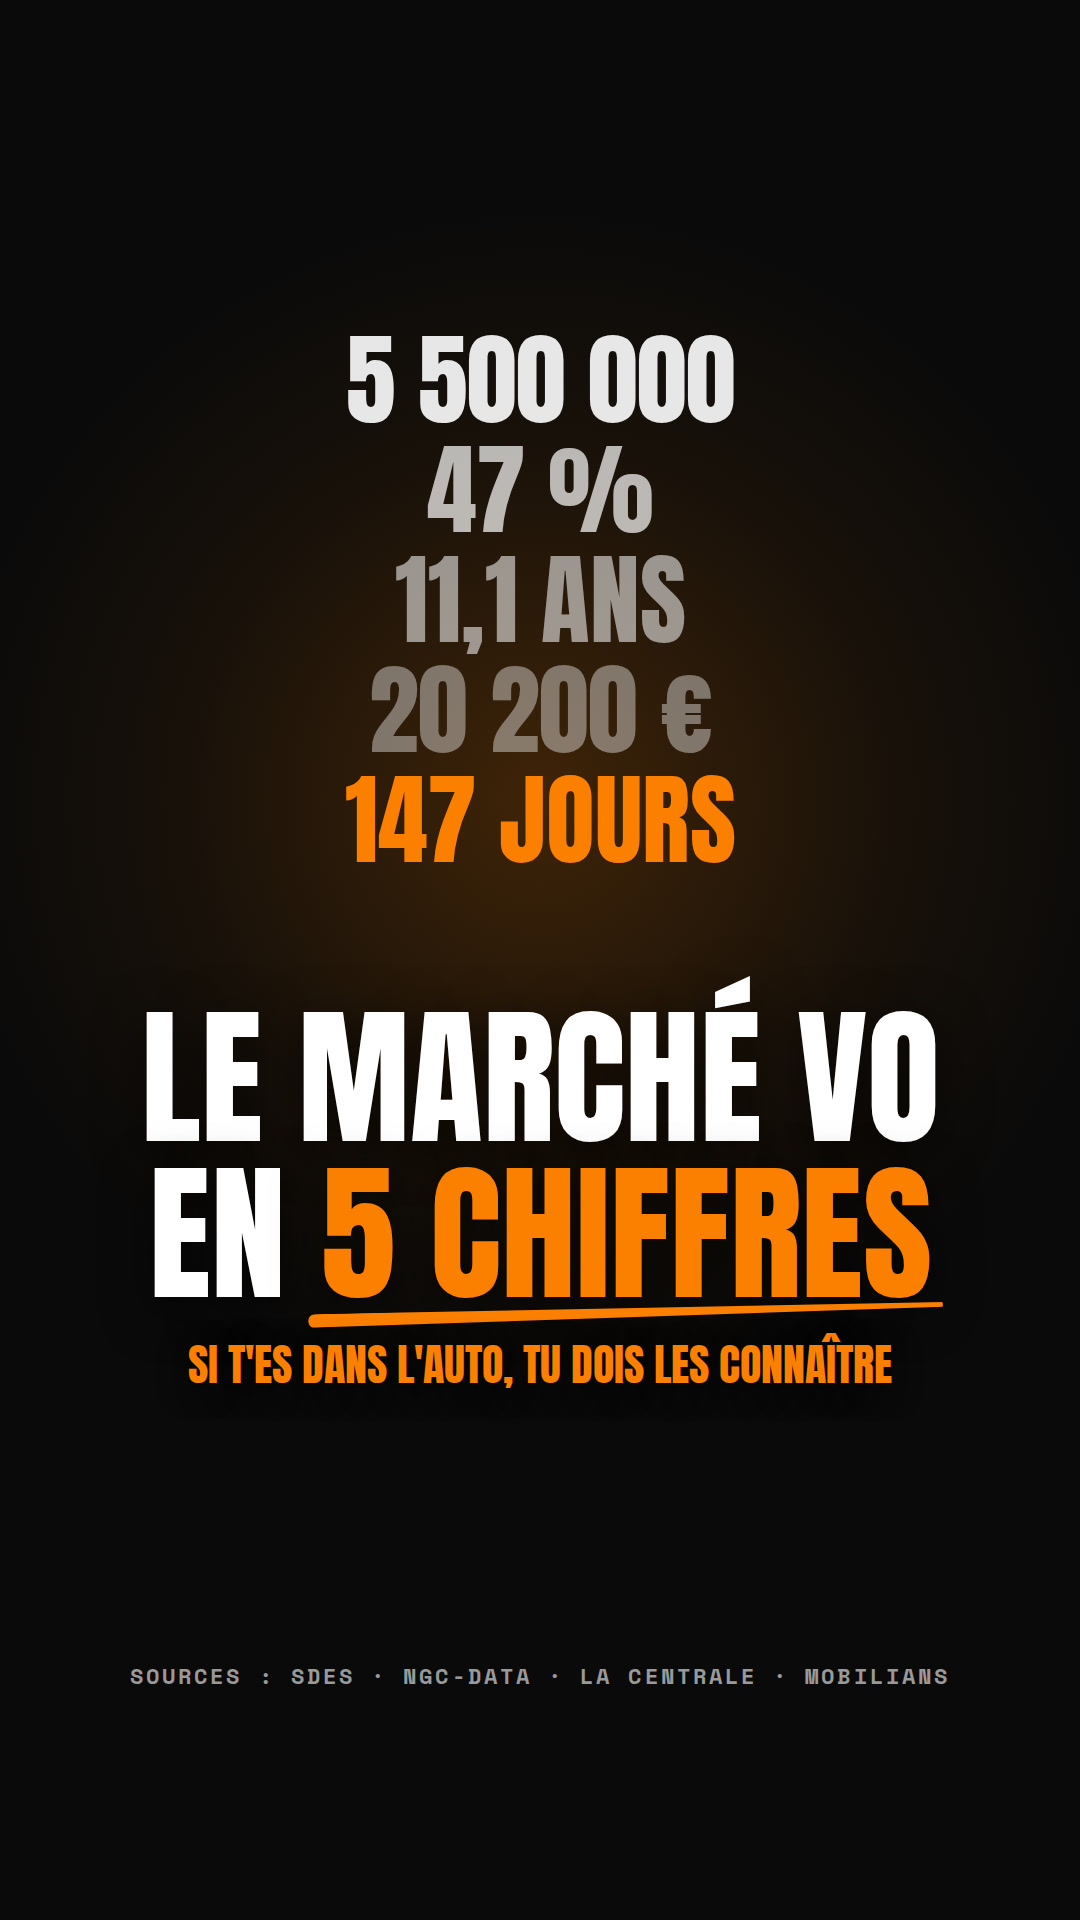
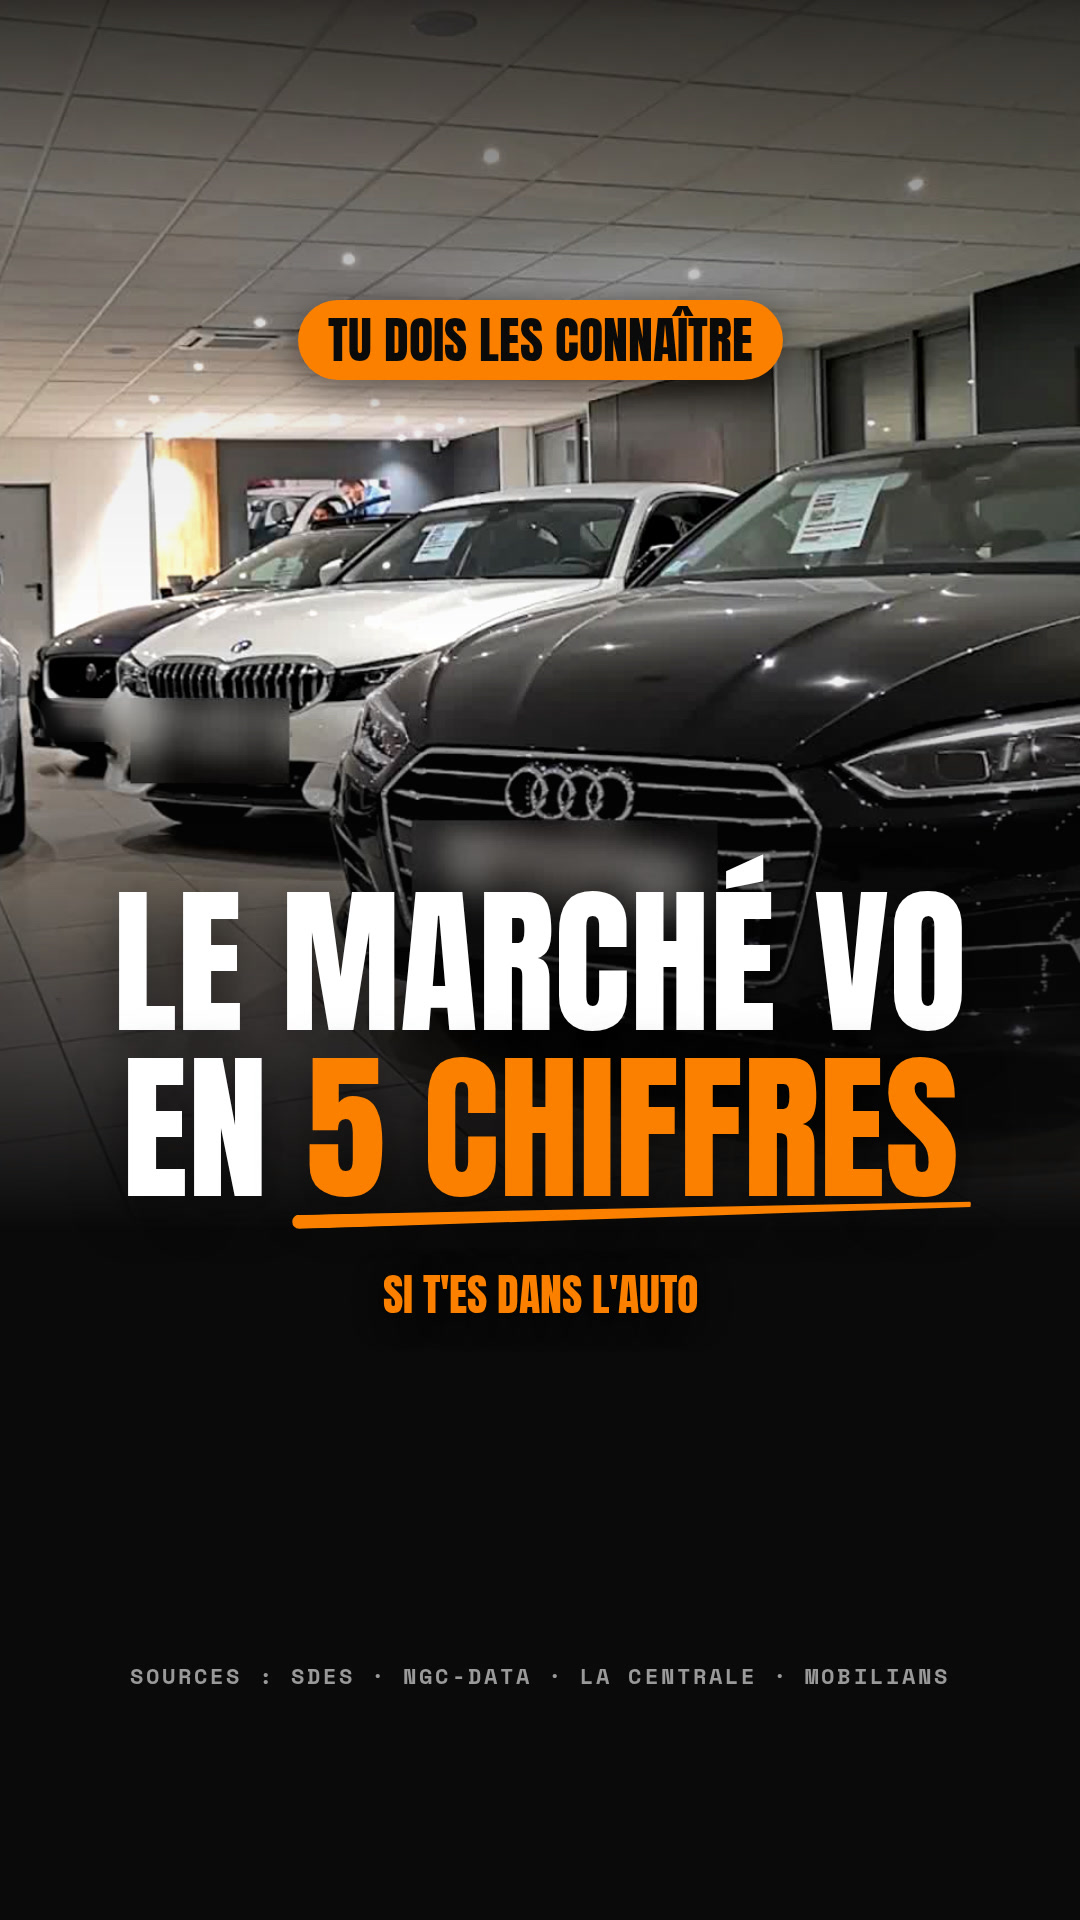
chiffres: cover sur la photo du showroom, sans les KPI
Claude-Session: https://claude.ai/code/session_01ARRCBTu3oy2jxFdHDyiDcc

diff --git a/chiffres/cover/cover.html b/chiffres/cover/cover.html
@@ -27,4 +27,4 @@ html, body { margin: 0; background: #0A0A0A; }
 .tile.or { border-color: #FB8000; }
 #k { position: absolute; left: 0; top: 1665px; width: 1080px; text-align: center; font: 700 30px/1 "Space Mono", monospace;
   color: #9a9a9a; letter-spacing: 0.14em; }
-</style></head><body><div id="c"><div id="halo"></div><div style="position:absolute;left:0;top:330px;width:1080px;text-align:center;font:100px/1 Anton;color:#fff;opacity:0.9">5 500 000</div><div style="position:absolute;left:0;top:440px;width:1080px;text-align:center;font:100px/1 Anton;color:#fff;opacity:0.7">47 %</div><div style="position:absolute;left:0;top:550px;width:1080px;text-align:center;font:100px/1 Anton;color:#fff;opacity:0.55">11,1 ANS</div><div style="position:absolute;left:0;top:660px;width:1080px;text-align:center;font:100px/1 Anton;color:#fff;opacity:0.4">20 200 €</div><div style="position:absolute;left:0;top:770px;width:1080px;text-align:center;font:100px/1 Anton;color:#FB8000;opacity:1">147 JOURS</div><div id="t" style="top:1000px;font-size:150px">LE MARCHÉ VO<br>EN <i class="u"><b>5 CHIFFRES</b></i></div><div id="s" style="top:1340px;font-size:44px">SI T'ES DANS L'AUTO, TU DOIS LES CONNAÎTRE</div><div id="k" style="font-size:22px">SOURCES : SDES · NGC-DATA · LA CENTRALE · MOBILIANS</div></div></body></html>
+</style></head><body><div id="c"><img id="hero" src="parc4.jpg" style="height:1300px;object-position:62% 50%;filter:saturate(1.15) contrast(1.08) brightness(1.05)"><div style="position:absolute;left:40px;top:698px;width:110px;height:44px;border-radius:8px;backdrop-filter:blur(10px);-webkit-backdrop-filter:blur(10px)"></div><div id="fade"></div><div id="hook"><span>TU DOIS LES CONNAÎTRE</span></div><div id="t" style="top:880px;font-size:160px">LE MARCHÉ VO<br>EN <i class="u"><b>5 CHIFFRES</b></i></div><div id="s" style="top:1270px;font-size:44px">SI T'ES DANS L'AUTO</div><div id="k" style="font-size:22px">SOURCES : SDES · NGC-DATA · LA CENTRALE · MOBILIANS</div></div></body></html>

diff --git a/dubai/cover/covers-autres-reels.py b/dubai/cover/covers-autres-reels.py
@@ -58,11 +58,9 @@ C = {
    hook="MÊME VOITURE, 2 MÉTIERS", title='MARCHAND<br><span style="font-size:0.5em">OU</span><br><i class="u"><b>INTERMÉDIAIRE ?</b></i>', ttop=990, tsize=150,
    sub="", stop=0, extra="",
    k="ACHAT-REVENTE AUTO"),
- "chiffres": dict(hero='<div id="halo"></div>' + "".join(
-     f'<div style="position:absolute;left:0;top:{330 + i * 110}px;width:1080px;text-align:center;font:{100}px/1 Anton;color:{c};opacity:{o}">{v}</div>'
-     for i, (v, c, o) in enumerate([("5 500 000", "#fff", .9), ("47 %", "#fff", .7), ("11,1 ANS", "#fff", .55), ("20 200 €", "#fff", .4), ("147 JOURS", "#FB8000", 1)])),
-   hook="", title='LE MARCHÉ VO<br>EN <i class="u"><b>5 CHIFFRES</b></i>', ttop=1000, tsize=150, sub="SI T'ES DANS L'AUTO, TU DOIS LES CONNAÎTRE",
-   stop=1340, extra="", k="SOURCES : SDES · NGC-DATA · LA CENTRALE · MOBILIANS", ssize=44, ksize=22),
+ "chiffres": dict(hero='<img id="hero" src="parc4.jpg" style="height:1300px;object-position:62% 50%;filter:saturate(1.15) contrast(1.08) brightness(1.05)"><div style="position:absolute;left:40px;top:698px;width:110px;height:44px;border-radius:8px;backdrop-filter:blur(10px);-webkit-backdrop-filter:blur(10px)"></div><div id="fade"></div>',
+   hook="TU DOIS LES CONNAÎTRE", title='LE MARCHÉ VO<br>EN <i class="u"><b>5 CHIFFRES</b></i>', ttop=880, tsize=160, sub="SI T'ES DANS L'AUTO",
+   stop=1270, extra="", k="SOURCES : SDES · NGC-DATA · LA CENTRALE · MOBILIANS", ssize=44, ksize=22),
 }
 for p, c in C.items():
     d = f"{R}/{p}/cover"
